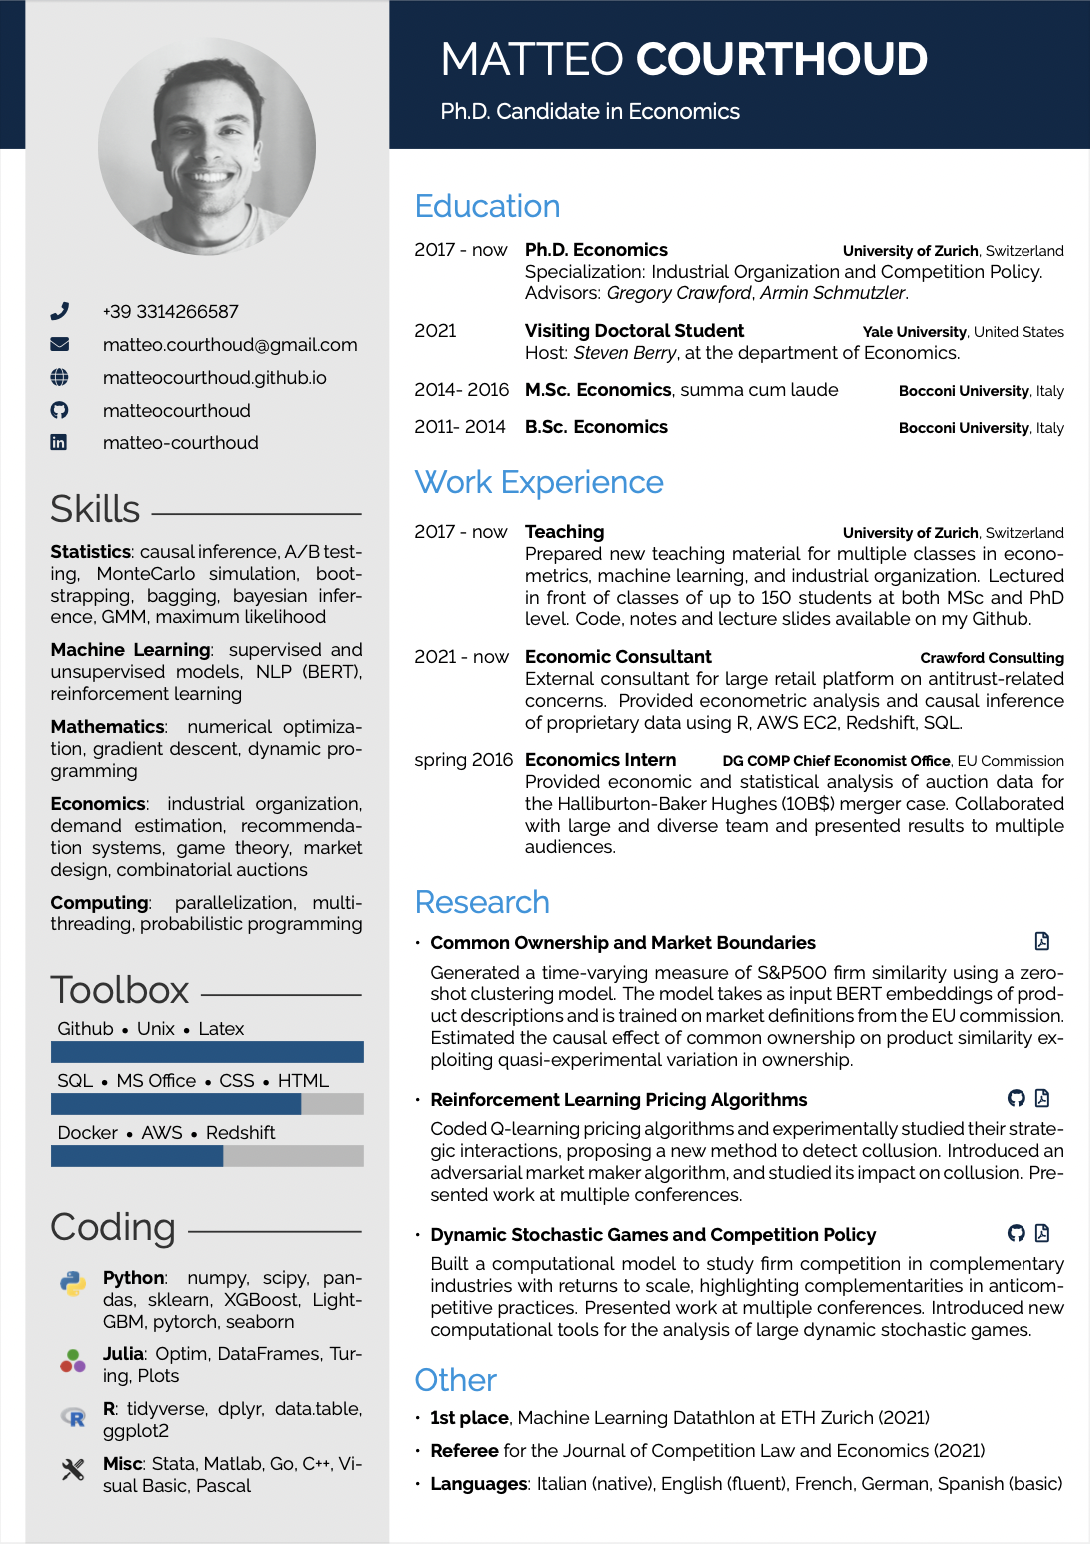
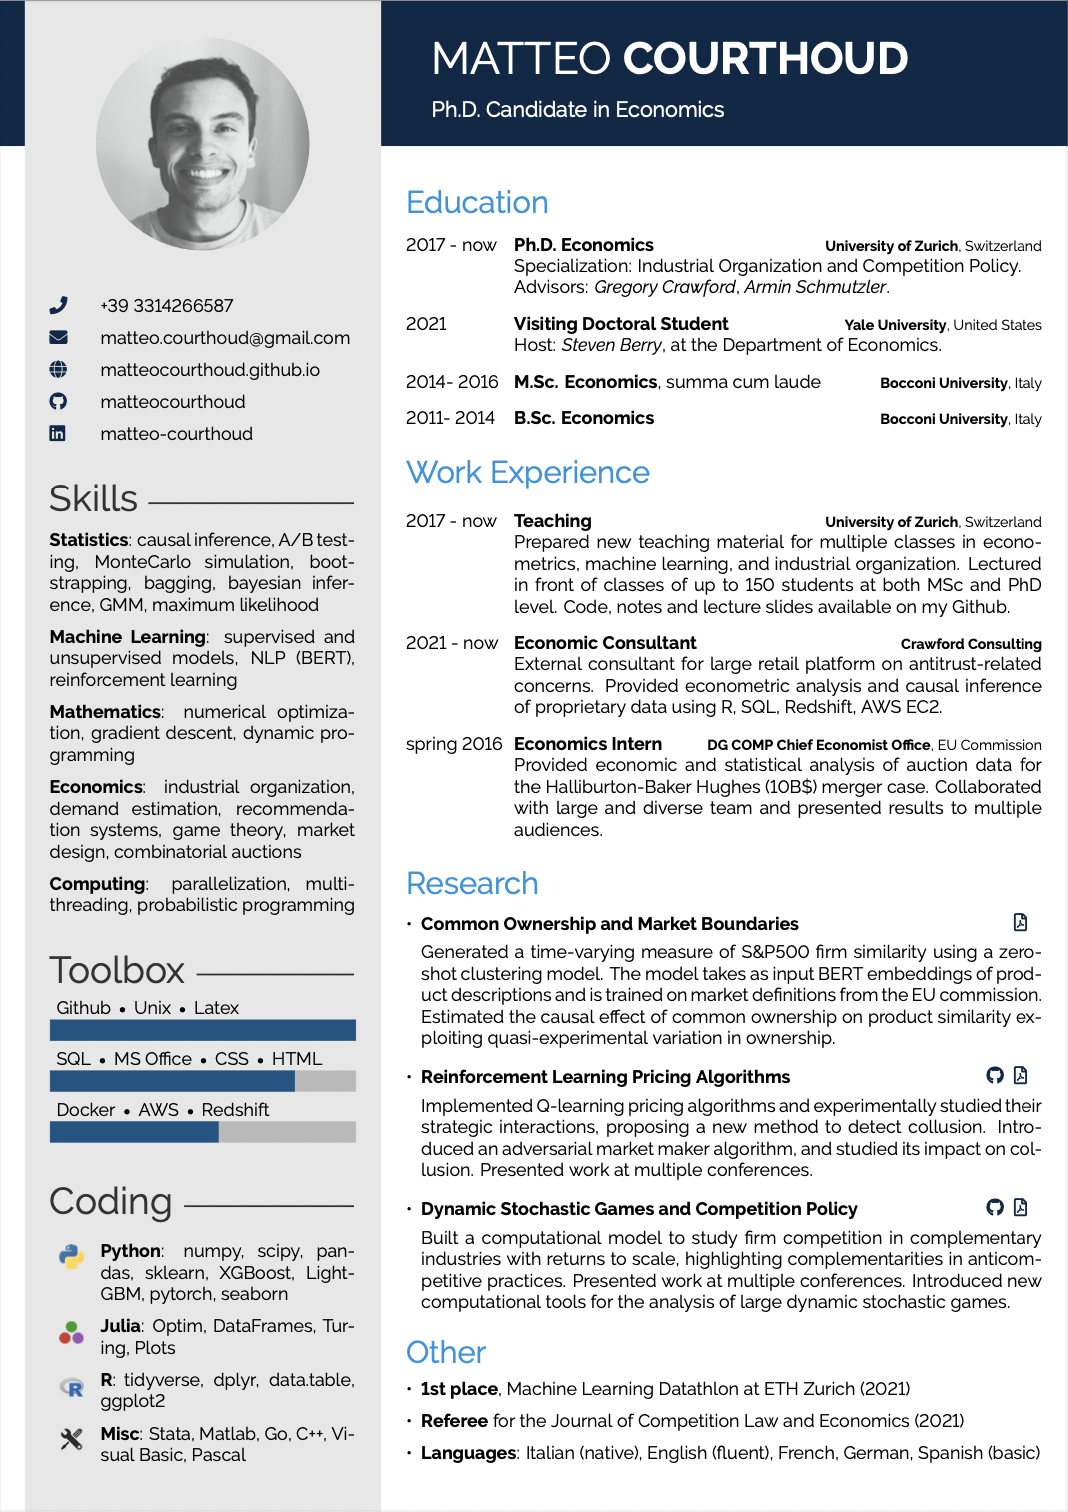
typos

diff --git a/cv.tex b/cv.tex
@@ -97,7 +97,7 @@
     	{2021}
         {Visiting Doctoral Student}
         {\href{https://www.yale.edu/}{\textbf{Yale University}, United States}}
-        {Host: \textit{Steven Berry}, at the department of Economics.}
+        {Host: \textit{Steven Berry}, at the Department of Economics.}
     \experienceitem
     	{2014- 2016}
         {M.Sc. Economics\normalfont{, summa cum laude}}
@@ -125,7 +125,7 @@
     	{2021 - now}
         {Economic Consultant}
         {\textbf{Crawford Consulting}}
-        {External consultant for large retail platform on antitrust-related concerns. Provided econometric analysis and causal inference of proprietary data using R, AWS EC2, Redshift, SQL.
+        {External consultant for large retail platform on antitrust-related concerns. Provided econometric analysis and causal inference of proprietary data using R, SQL, Redshift, AWS EC2.
         }
     \experienceitem
     	{spring 2016}
@@ -164,7 +164,7 @@
     \end{array}
     $}
     \newline
-    Coded Q-learning pricing algorithms and experimentally studied their strategic interactions, proposing a new method to detect collusion. Introduced an adversarial market maker algorithm, and studied its impact on collusion. Presented work at multiple conferences.
+    Implemented Q-learning pricing algorithms and experimentally studied their strategic interactions, proposing a new method to detect collusion. Introduced an adversarial market maker algorithm, and studied its impact on collusion. Presented work at multiple conferences.
     
     \item \textbf{Dynamic Stochastic Games and Competition Policy}
     \hfill
